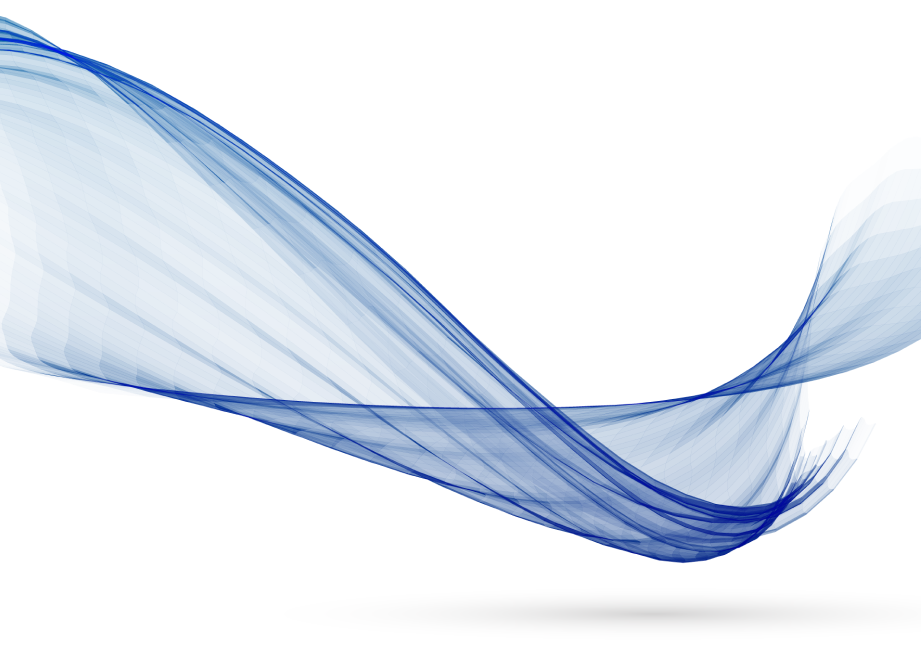
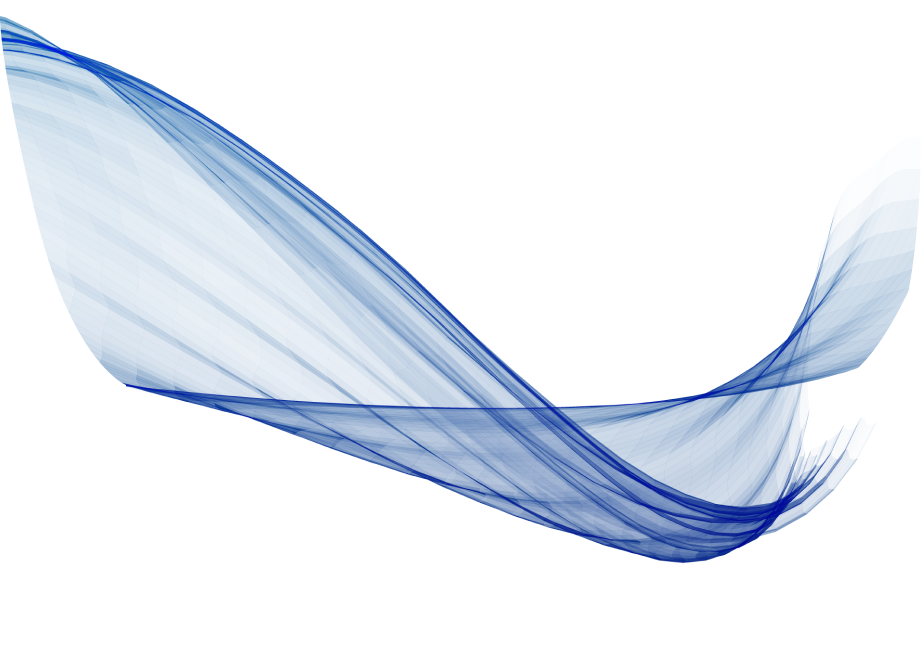
optimizing styles

diff --git a/index.html b/index.html
@@ -481,7 +481,7 @@
             <article class="section-container section-container--full-width">
                 <div class="intro__description">
                     <div class="intro__image"></div>
-                    <div class="intro__text">
+                    <div class="">
                         <h2 class="section-title">What we do</h2>
                         <p class="section-paragraph">
                             Guarantee Vault is a place for the issuance and safe keeping of digital guarantees. It gives
@@ -589,7 +589,7 @@
                 <img src="./images/service-life-cycle2.png" alt="Services throughout the guarantee life-cycle"
                     class="section-image">
                 <ol class="section-ol">
-                    <li class="section-ol__item section-heading">
+                    <li class="section-item section-heading">
                         <h3 class="section-heading">Application</h3>
                         <ul class="section-ul">
                             <li class="section-list-item section-paragraph">
@@ -601,7 +601,7 @@
                             </li>
                         </ul>
                     </li>
-                    <li class="section-ol__item section-heading">
+                    <li class="section-item section-heading">
                         <h3 class="section-heading">Issuance</h3>
                         <ul class="section-ul">
                             <li class="section-list-item section-paragraph">
@@ -612,7 +612,7 @@
                             </li>
                         </ul>
                     </li>
-                    <li class="section-ol__item section-heading">
+                    <li class="section-item section-heading">
                         <h3 class="section-heading">Post-Issuance</h3>
                         <ul class="section-ul">
                             <li class="section-list-item section-paragraph">
@@ -625,7 +625,7 @@
                             </li>
                         </ul>
                     </li>
-                    <li class="section-ol__item section-heading">
+                    <li class="section-item section-heading">
                         <h3 class="section-heading">Safe Keeping Services</h3>
                         <ul class="section-ul">
                             <li class="section-list-item section-paragraph">
@@ -645,7 +645,7 @@
                 </ol>
             </article>
         </section>
-        <section class="section benefits">
+        <section class="benefits section">
             <article class="section-container section-container--normal-width">
                 <h2 class="section-title">Benefits</h2>
                 <div class="section-ul benefits__ul">
@@ -753,7 +753,7 @@
                 </div>
             </article>
         </section>
-        <section class="section api-solution">
+        <section class="api-solution section section--bg-gradient ">
             <div class="section-container section-container--normal-width">
                 <h2 class="section-title">
                     Guarantee Vault is a <span class="section-paragraph--accent">REST API Solution</span>
@@ -845,9 +845,18 @@
                 <img src="./images/legal-feather1.jpg" width="300" alt="" class="section-image">
                 <div>
                     <h3 class="section-title legal__container">Legal</h3>
-                    <p class="section-paragraph">All digital guarantees issued on the vault will retain the same legal
-                        enforceability rights as that of the paper guarantee today.</p>
-                    <a href="./about-us.html" class=" btn btn--text-blue btn--size-l btn--border-blue">More</a>
+                    <p class="section-paragraph">
+                        All digital guarantees issued via Guarantee Vault retain their full legal validity and
+                        enforceability. When issuing guarantees on Guarantee Vault only the form of
+                        the guarantee is changed (i.e. paper to digital) not their content.
+                        Before offering its services in any country, Digital Vault Services GmbH conducts a thorough
+                        analysis and validates that the national law governing guarantees in that market allows
+                        electronic form. Digital Vault Services GmbH works with the following legal partners in this
+                        regard
+                    </p>
+                    <a href="./advisory-board" class="btn btn--text-blue btn--size-l btn--border-blue">
+                        More
+                    </a>
                 </div>
             </article>
         </section>
@@ -855,13 +864,31 @@
     <footer class=" footer">
         <nav class="footer__nav">
             <ul class="footer__links">
-                <li class="footer__list-item"><a class="footer__link" href="#">Product
-                        Overview</a></li>
-                <li class="footer__list-item"><a class="footer__link" href="#">Legal Corner</a>
+                <li class="footer__list-item">
+                    <a class="footer__link" href="#">
+                        Product Overview
+                    </a>
                 </li>
-                <li class="footer__list-item"><a class="footer__link" href="#">About us</a></li>
-                <li class="footer__list-item"><a class="footer__link" href="#">Help</a></li>
-                <li class="footer__list-item"><a class="footer__link" href="#">Contact</a></li>
+                <li class="footer__list-item">
+                    <a class="footer__link" href="#">
+                        Legal Corner
+                    </a>
+                </li>
+                <li class="footer__list-item">
+                    <a class="footer__link" href="#">
+                        About us
+                    </a>
+                </li>
+                <li class="footer__list-item">
+                    <a class="footer__link" href="#">
+                        Help
+                    </a>
+                </li>
+                <li class="footer__list-item">
+                    <a class="footer__link" href="#">
+                        Contact
+                    </a>
+                </li>
             </ul>
         </nav>
         <p class="footer__copyright">&copy; 2021. Digital Vault Service Gmbh</p>

diff --git a/blocks/api-solution/api-solution.css b/blocks/api-solution/api-solution.css
@@ -2,12 +2,5 @@
 @import url('./__wrapper/api-solution__wrapper.css');
 
 .api-solution {
- background-image: ;
-     background: linear-gradient(306.12deg, rgba(255, 255, 255, 0) 8.64%, rgba(0, 41, 125, 0.1) 100%),
-     #ffffff;
- background-position: top right;
- background-repeat: no-repeat;
-  padding: 96px 0 96px 0;
-  width: 100%;
 
 }

diff --git a/blocks/section-ol/section-ol.css b/blocks/section-ol/section-ol.css
@@ -1,9 +1,11 @@
-@import url('./__item/section-ol__item.css');
+
 
 .section-ol {
         list-style: decimal;
+        margin: 0;
+        padding: 0;
 }
 
-.section-ol::marker {
+/* .section-ol::marker {
          list-style-position: inside;
-}
+} */

diff --git a/blocks/testimonials/__position/testimonials__position.css b/blocks/testimonials/__position/testimonials__position.css
@@ -1,9 +1,9 @@
 .testimonials__position {
     color: #001540;
-    font-size: 16px;
+    font-size: 20px;
     line-height: 1.4;
     font-style: normal;
     font-weight: 300;
     text-align: right;
-    margin: 0;
+    margin: 8px 0 0 0;
 }

diff --git a/blocks/intro/__image/intro__image.css b/blocks/intro/__image/intro__image.css
@@ -2,7 +2,8 @@
 	background: url('../../../images/abstract-waves.png') no-repeat;
 	width: 100%;
 	max-width: 100vw;
-	background-position: top right;
+	background-size: contain;
+
 	/* margin-right: 40px; */
 }
 

diff --git a/blocks/section/--bg-gradient/section__bg-gradient.css b/blocks/section/--bg-gradient/section__bg-gradient.css
@@ -1,3 +1,3 @@
 .section--bg-gradient {
-        background: linear-gradient(306.12deg, rgba(255, 255, 255, 0.3) 8.64%, rgba(0, 41, 125, 0.2) 100%), #FFFFFF;
+        background: #EBF1FE;
 }

diff --git a/blocks/section-list-item/section-list-item.css b/blocks/section-list-item/section-list-item.css
@@ -1,4 +1,7 @@
 .section-list-item {
     margin-bottom: 16px;
+}
 
+.section-list-item::marker {
+     list-style-position: inside;
 }

diff --git a/blocks/section/section.css b/blocks/section/section.css
@@ -2,5 +2,4 @@
 
 .section {
 	padding: 96px 0 96px 0;
-	width: 100%;
 }
